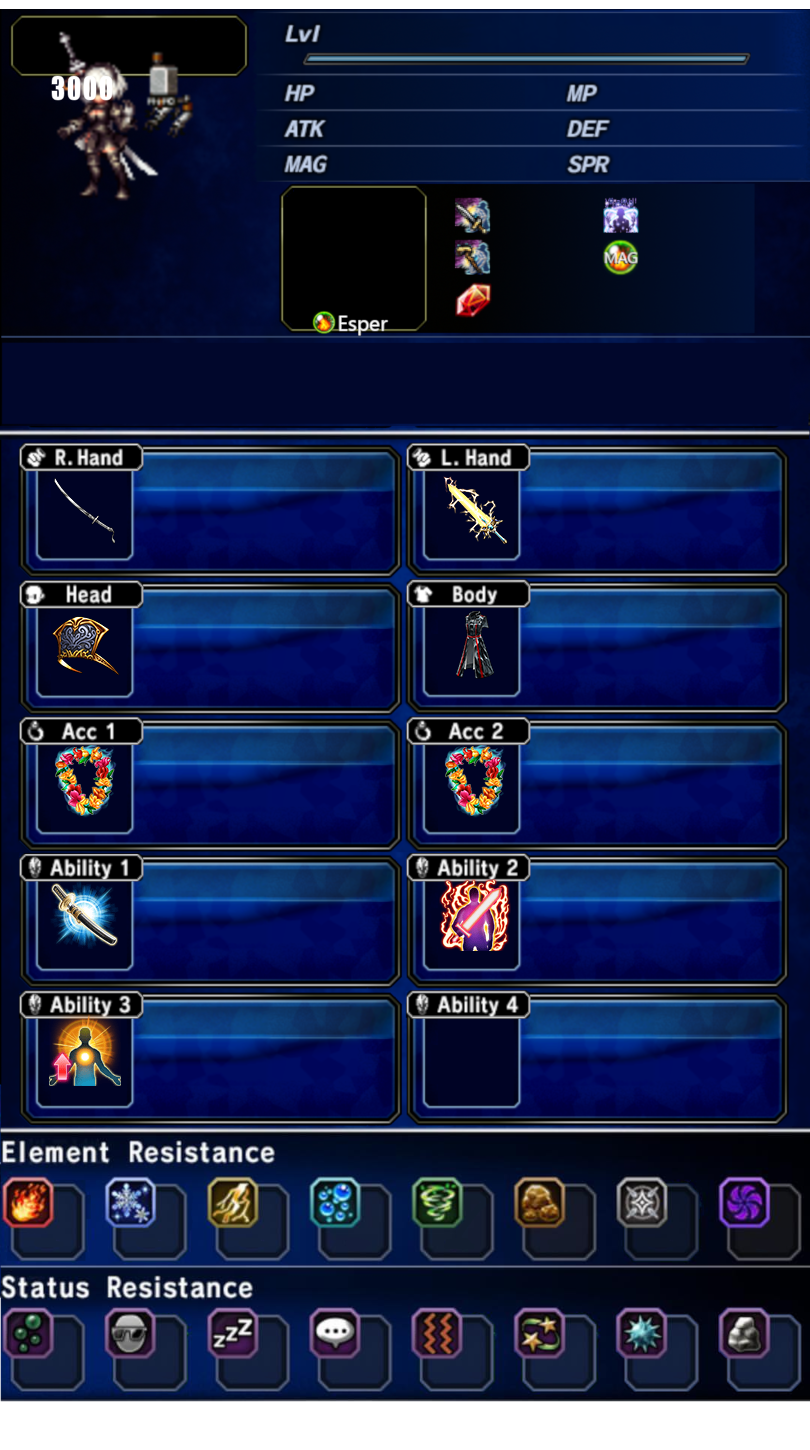
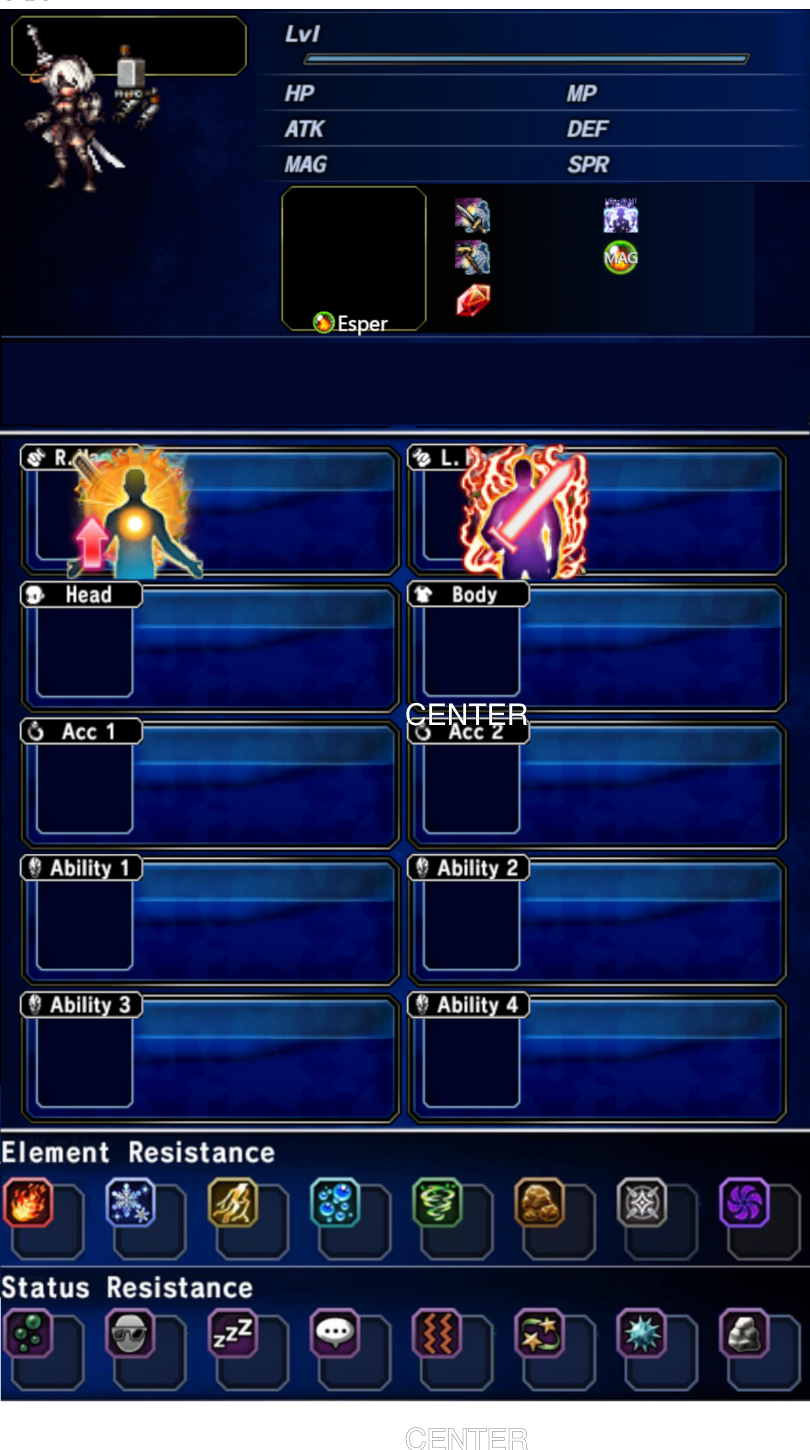
WIP

diff --git a/combineImage.js b/combineImage.js
@@ -63,15 +63,15 @@ function buildImage(images, unit) {
     }, 
     {
         src: imgDir + unit.name,
-        x: 125 - ((unit.w * 2.5) / 2),
-        y: 225 - ((unit.h * 2.5)),
+        x: 0,//150 - ((unit.w * 2.5) / 2),
+        y: 0,//150 + ((unit.h * 2.5)),
         w: unit.w * 2.5,
         h: unit.h * 2.5
     }];
     var sx = 85;
-    var sy = 510;
+    var sy = 500;
     var xspace = 390;
-    var yspace = 132;
+    var yspace = 140;
     var y = sy;
     images.forEach((image, index) => {
         console.log(imgDir + image)
@@ -79,7 +79,9 @@ function buildImage(images, unit) {
         load[load.length] = {
             src: imgDir + image,
             x: (sx + (xspace * (index % 2))) - 56,
-            y: y - 56
+            y: 405,
+            w: 112,
+            h: 112
         }
 
         if (index % 2) {
